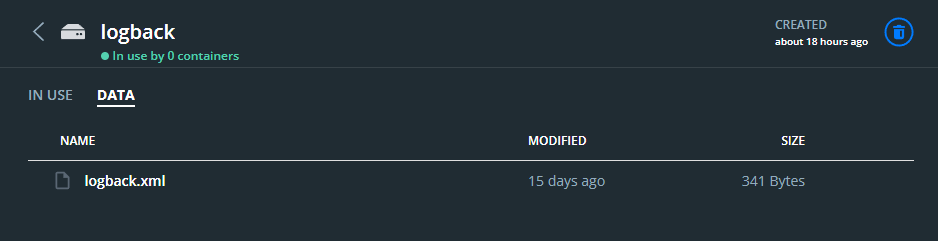
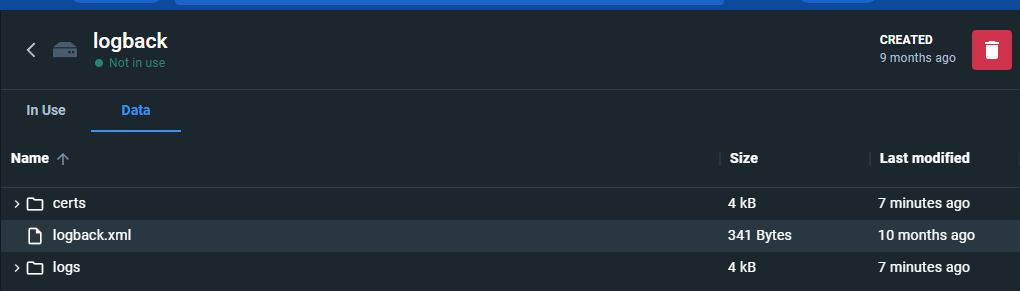
Refactoring

diff --git a/devops/instructions.md b/devops/instructions.md
@@ -199,12 +199,14 @@ https://www.docker.com/products/docker-desktop/
 ### Create Volumes
 <img src="https://raw.githubusercontent.com/dredwardhyde/addressbook/master/devops/readme/volumes.png" width="900"/>  
 
-### Copy [keystore.jks](https://github.com/dredwardhyde/addressbook/blob/master/addressbook-main/certs/keystore.jks), [truststore.jks](https://github.com/dredwardhyde/addressbook/blob/master/addressbook-main/certs/truststore.jks), [logback.xml](https://github.com/dredwardhyde/addressbook/blob/master/addressbook-main/src/main/resources/logback.xml) to the Volume folders
+### Copy [web-app](https://github.com/dredwardhyde/addressbook/blob/master/addressbook-main/certs), [postgre-server](https://github.com/dredwardhyde/addressbook/blob/master/postgre-server/client_certs), [mongo-server](https://github.com/dredwardhyde/addressbook/blob/master/mongo-server/client_certs) certificates, [logback.xml](https://github.com/dredwardhyde/addressbook/blob/master/addressbook-main/src/main/resources/logback.xml) to the Volume folders
 ```shell
 \\wsl$\docker-desktop-data\version-pack-data\community\docker\volumes
 ```
 <img src="https://raw.githubusercontent.com/dredwardhyde/addressbook/master/devops/readme/logback_volume.png" width="900"/>
-<img src="https://raw.githubusercontent.com/dredwardhyde/addressbook/master/devops/readme/certs_volume.png" width="900"/>  
+<img src="https://raw.githubusercontent.com/dredwardhyde/addressbook/master/devops/readme/web_certs_volume.png" width="900"/>  
+<img src="https://raw.githubusercontent.com/dredwardhyde/addressbook/master/devops/readme/mongo_certs_volume.png" width="900"/>  
+<img src="https://raw.githubusercontent.com/dredwardhyde/addressbook/master/devops/readme/postgre_certs_volume.png" width="900"/>  
 
 ### Deploy project
 ```shell
